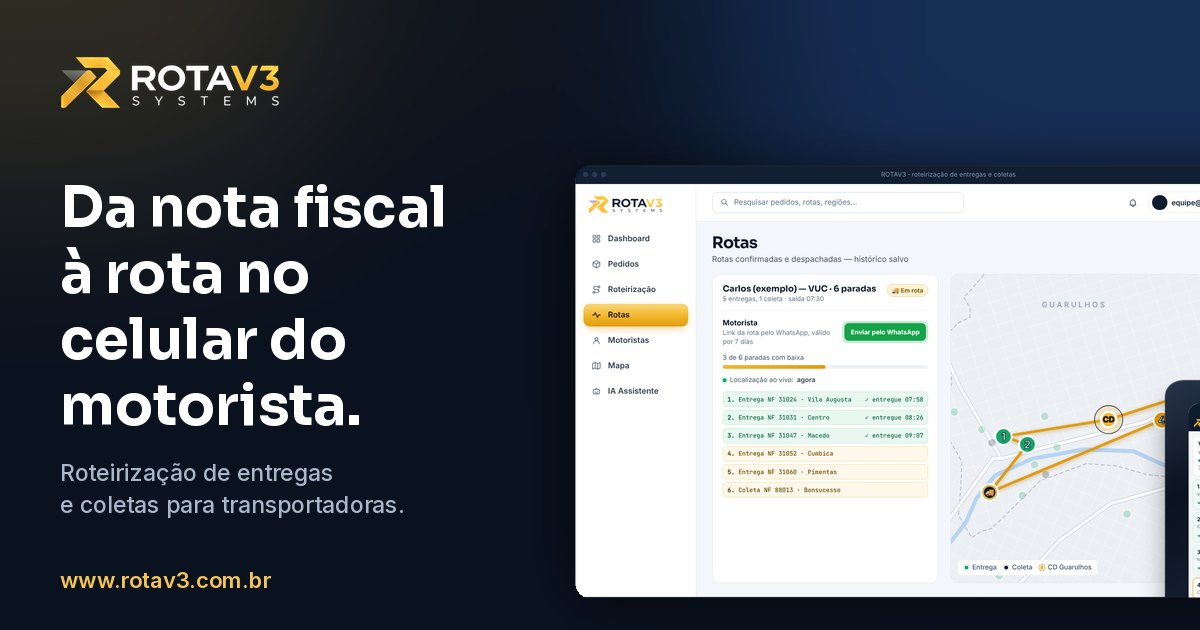
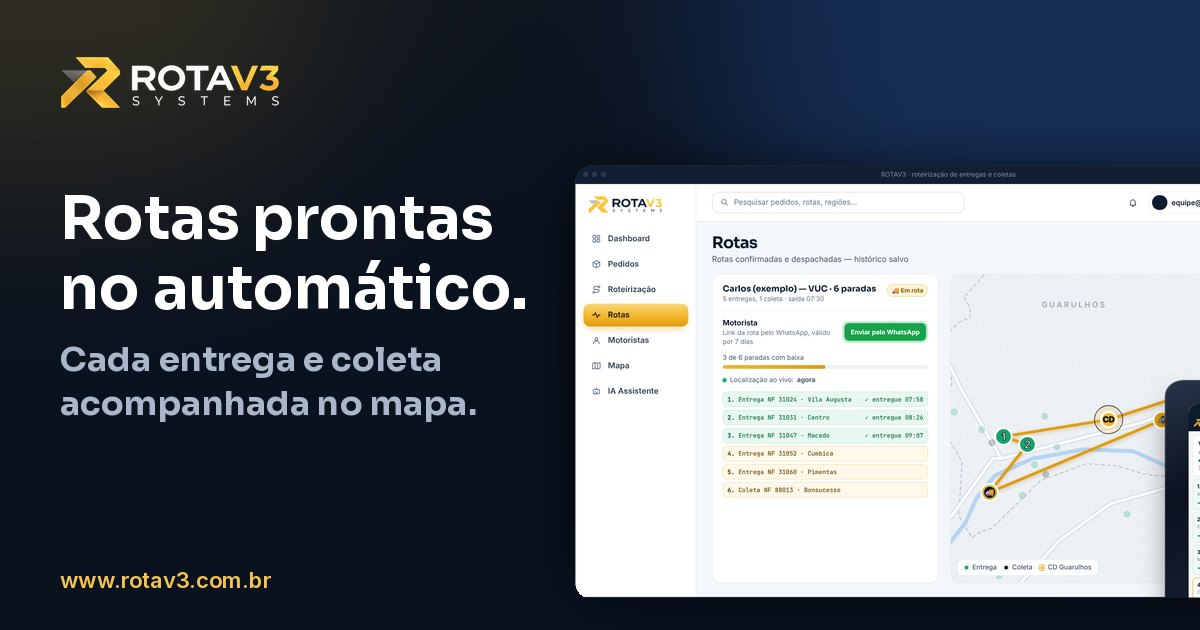
Título 'Rotas prontas no automático' e preço só a partir de R$ 197 (valor da frota sob consulta)
Claude-Session: https://claude.ai/code/session_01Y2emP6HBaBvSJzja7iZRew

Changed region(s): [[0.0308, 0.2714, 0.4317, 0.6937], [0.0308, 0.7238, 0.3392, 0.8143]]

diff --git a/index.html b/index.html
@@ -24,10 +24,10 @@
         } catch (e) {}
       })();
     </script>
-    <title>ROTAV3 Systems — Roteirização de entregas e coletas para transportadoras</title>
+    <title>ROTAV3 — Rotas prontas no automático para transportadoras</title>
     <meta
       name="description"
-      content="Importe o XML das notas, veja entregas e coletas no mapa, gere a rota pelo peso, pela capacidade e pelo horário de cada cliente e envie ao motorista pelo WhatsApp. Baixas com foto e localização ao vivo. A partir de R$ 197 por mês."
+      content="Rotas prontas no automático para transportadoras: importe as notas e o ROTAV3 monta a sequência de paradas pelo peso, pela capacidade e pelo horário de cada cliente, envia a rota ao motorista pelo WhatsApp e mostra cada entrega e coleta no mapa. Planos a partir de R$ 197 por mês."
     />
     <meta name="theme-color" content="#0a1220" />
     <link rel="canonical" href="https://www.rotav3.com.br/" />
@@ -35,12 +35,9 @@
     <meta property="og:locale" content="pt_BR" />
     <meta property="og:site_name" content="ROTAV3 Systems" />
     <meta property="og:url" content="https://www.rotav3.com.br/" />
-    <meta property="og:title" content="ROTAV3 — da nota fiscal à rota no celular do motorista" />
-    <meta
-      property="og:description"
-      content="Roteirização de entregas e coletas para transportadoras: notas no mapa, rota pela capacidade e pelo horário de cada cliente, link do motorista pelo WhatsApp e baixas na hora."
-    />
-    <meta property="og:image" content="https://www.rotav3.com.br/img/og-rotav3.jpg" />
+    <meta property="og:title" content="ROTAV3 — Rotas prontas no automático. Cada entrega e coleta acompanhada no mapa." />
+    <meta property="og:description" content="Importe as notas e o ROTAV3 monta as rotas pelo peso, pela capacidade e pelo horário de cada cliente. O motorista recebe no WhatsApp e cada baixa aparece no mapa na hora." />
+    <meta property="og:image" content="https://www.rotav3.com.br/img/og-rotav3.jpg?v=2" />
     <meta property="og:image:width" content="1200" />
     <meta property="og:image:height" content="630" />
     <meta property="og:image:alt" content="Painel do ROTAV3 com a rota de um veículo no mapa e a tela do motorista no celular" />
@@ -80,9 +77,7 @@
             "offers": {
               "@type": "AggregateOffer",
               "priceCurrency": "BRL",
-              "lowPrice": "197",
-              "highPrice": "697",
-              "offerCount": "3"
+              "lowPrice": "197"
             },
             "publisher": { "@id": "https://www.rotav3.com.br/#org" }
           }
@@ -225,12 +220,12 @@
           </picture>
         </div>
         <div class="cont hero__cab">
-          <h1 id="hero-titulo">Da nota fiscal à rota no celular do&nbsp;motorista.</h1>
+          <h1 id="hero-titulo"><span class="h1-a">Rotas prontas no&nbsp;automático.</span> <span class="h1-b">Cada entrega e coleta acompanhada no&nbsp;mapa.</span></h1>
           <div class="hero__lado">
             <p class="hero__texto">
-              O ROTAV3 lê o XML das suas notas, mostra entregas e coletas no mapa, monta a sequência
-              de paradas pelo peso, pela capacidade e pelo horário de cada cliente e envia a rota ao
-              motorista pelo WhatsApp. Cada baixa aparece no painel na hora.
+              Importe as notas e o ROTAV3 monta sozinho a sequência de paradas pelo peso, pela
+              capacidade e pelo horário de cada cliente. O motorista recebe a rota no WhatsApp e cada
+              baixa aparece no painel na hora.
             </p>
             <div class="hero__acoes">
               <a class="btn btn--ouro btn--g" href="https://wa.me/5511955914618" data-abrir="acesso">
@@ -693,7 +688,7 @@
           <ul class="vivo__fatos">
             <li><img src="img/ic/link.webp" alt="" width="44" height="44" loading="lazy" /><div><b>Sem aplicativo para instalar</b><span>O link abre no navegador de qualquer celular. Vale por 7 dias e o escritório pode encerrar antes.</span></div></li>
             <li><img src="img/ic/camera-with-flash.webp" alt="" width="44" height="44" loading="lazy" /><div><b>Baixa com comprovante</b><span>Nome de quem recebeu, foto do canhoto e, quando não deu certo, o motivo.</span></div></li>
-            <li><img src="img/ic/satellite-antenna.webp" alt="" width="44" height="44" loading="lazy" /><div><b>Rastreador da frota</b><span>Já usa rastreador? Conectamos o ROTAV3 a ele quando o fornecedor libera os dados. Incluso nos planos Operação e Frota.</span></div></li>
+            <li><img src="img/ic/satellite-antenna.webp" alt="" width="44" height="44" loading="lazy" /><div><b>Rastreador da frota</b><span>Já usa rastreador? Conectamos o ROTAV3 a ele quando o fornecedor libera os dados. Confirmamos na demonstração.</span></div></li>
           </ul>
         </div>
       </section>
@@ -871,55 +866,37 @@
       <section class="secao secao--clara precos" id="precos" aria-labelledby="precos-titulo">
         <div class="cont">
           <header class="cab cab--larga">
-            <h2 id="precos-titulo">Preço fixo pelo tamanho da frota.</h2>
+            <h2 id="precos-titulo">Preço pelo tamanho da frota.</h2>
             <p class="cab__texto">
-              Sem cobrança por entrega e sem equipamento para instalar. Implantação e treinamento
-              inclusos em todos os planos. Mensal, sem fidelidade.
+              Sem cobrança por entrega e sem equipamento para instalar. O valor do seu plano depende de
+              quantos veículos rodam na operação e é fechado na demonstração.
             </p>
           </header>
-          <div class="planos">
-            <article class="plano">
-              <h3>Essencial</h3>
-              <p class="plano__para"><svg class="ico"><use href="#i-caminhao" /></svg>Até 5 veículos</p>
+          <div class="preco">
+            <article class="preco__card">
+              <p class="preco__rotulo">Planos a partir de</p>
               <p class="plano__preco"><span>R$</span><b>197</b><span>/mês</span></p>
-              <ul>
-                <li>Todas as funções do sistema</li>
-                <li>Implantação inclusa</li>
-                <li>Sincronização com rastreador: +R$ 97/mês</li>
-              </ul>
-              <a class="btn btn--linha-clara" href="https://wa.me/5511955914618" data-abrir="agendar">Agendar demonstração</a>
+              <p class="preco__texto">Para operações com poucos veículos. Frotas maiores têm o valor calculado pelo número de veículos.</p>
+              <a class="btn btn--ouro btn--g" href="https://wa.me/5511955914618" data-abrir="preco"><svg class="ico"><use href="#i-chat" /></svg>Consultar o valor da minha frota</a>
             </article>
-            <article class="plano plano--meio">
-              <h3>Operação</h3>
-              <p class="plano__para"><svg class="ico"><use href="#i-caminhao" /></svg>6 a 15 veículos</p>
-              <p class="plano__preco"><span>R$</span><b>397</b><span>/mês</span></p>
+            <div class="preco__inclui">
+              <h3>Em todos os planos</h3>
               <ul>
-                <li>Todas as funções do sistema</li>
-                <li>Implantação inclusa</li>
-                <li>Sincronização com rastreador inclusa</li>
+                <li>Todas as funções do sistema, sem módulos extras</li>
+                <li>Implantação e treinamento da equipe inclusos</li>
+                <li>Painel com as cores e o logo da sua empresa</li>
+                <li>Suporte pelo WhatsApp, com quem desenvolve o sistema</li>
+                <li>Mensal, sem fidelidade, sem multa e sem taxa de entrada</li>
               </ul>
-              <a class="btn btn--ouro" href="https://wa.me/5511955914618" data-abrir="agendar">Agendar demonstração</a>
-            </article>
-            <article class="plano">
-              <h3>Frota</h3>
-              <p class="plano__para"><svg class="ico"><use href="#i-caminhao" /></svg>Acima de 15 veículos</p>
-              <p class="plano__preco"><span>R$</span><b>697</b><span>/mês</span></p>
-              <ul>
-                <li>Todas as funções do sistema</li>
-                <li>Implantação inclusa</li>
-                <li>Sincronização com rastreador inclusa</li>
-              </ul>
-              <a class="btn btn--linha-clara" href="https://wa.me/5511955914618" data-abrir="agendar">Agendar demonstração</a>
-            </article>
+            </div>
           </div>
           <div class="precos__rodape">
             <p>
               <b>Sincronização com rastreador:</b> conectamos o ROTAV3 ao rastreador que a sua frota já
               usa, quando o fornecedor libera o acesso aos dados, e os veículos aparecem no mapa junto
-              com as rotas. Confirmamos a compatibilidade na demonstração.
+              com as rotas. Confirmamos a compatibilidade e o valor na demonstração.
               <a href="https://wa.me/5511955914618" data-abrir="rastreamento">Verificar o meu rastreador</a>
             </p>
-            <p><b>Sem fidelidade:</b> pagamento mensal, sem multa e sem taxa de entrada. Cancele quando quiser.</p>
           </div>
         </div>
       </section>
@@ -973,8 +950,8 @@
                 Sim, de dois jeitos. Pelo celular do motorista: com a permissão dele, a página da rota
                 envia a localização enquanto está aberta, e o painel mostra o veículo no mapa. Pelo
                 rastreador da frota: conectamos o ROTAV3 ao rastreador que a sua frota já usa, quando o
-                fornecedor libera o acesso aos dados. A sincronização com rastreador está inclusa nos
-                planos Operação e Frota; no Essencial custa R$ 97 por mês.
+                fornecedor libera o acesso aos dados; confirmamos a compatibilidade e o valor na
+                demonstração.
               </p>
             </details>
             <details>
@@ -1002,9 +979,9 @@
             <details>
               <summary>Quanto custa?<svg class="ico"><use href="#i-mais" /></svg></summary>
               <p>
-                Essencial (até 5 veículos): R$ 197 por mês. Operação (6 a 15 veículos): R$ 397 por mês.
-                Frota (acima de 15 veículos): R$ 697 por mês. Implantação e treinamento inclusos em
-                todos os planos, sem taxa de entrada. <a href="#precos">Ver os planos</a>.
+                Os planos começam em R$ 197 por mês. O valor exato depende do tamanho da frota e é
+                fechado na demonstração, com implantação e treinamento inclusos e sem taxa de entrada.
+                <a href="#precos">Ver o que vem nos planos</a>.
               </p>
             </details>
             <details>

diff --git a/css/style.css b/css/style.css
@@ -514,10 +514,21 @@ p {
   align-items: end;
 }
 .hero h1 {
-  font-size: clamp(2.45rem, 1.25rem + 4.1vw, 4.75rem);
+  font-size: clamp(2.45rem, 1.25rem + 4.1vw, 4.6rem);
   line-height: 1.01;
   letter-spacing: -0.045em;
   color: #fff;
+}
+.h1-a,
+.h1-b {
+  display: block;
+}
+.h1-b {
+  margin-top: 0.32em;
+  font-size: 0.56em;
+  line-height: 1.12;
+  letter-spacing: -0.03em;
+  color: var(--txt-esc-2);
 }
 .hero__texto {
   font-size: clamp(1.03rem, 0.97rem + 0.32vw, 1.2rem);
@@ -3975,11 +3986,71 @@ i.r {
 .plano--meio li::before {
   border-color: var(--ouro);
 }
+.preco {
+  display: grid;
+  grid-template-columns: minmax(0, 0.9fr) minmax(0, 1.1fr);
+  gap: 16px;
+  align-items: stretch;
+}
+.preco__card {
+  display: grid;
+  align-content: start;
+  gap: 10px;
+  padding: clamp(24px, 3vw, 40px);
+  border-radius: var(--raio-g);
+  background: var(--marinho);
+  color: #fff;
+  box-shadow: 0 30px 60px -30px rgba(16, 34, 63, 0.8);
+}
+.preco__rotulo {
+  font-weight: 600;
+  color: #c3cee0;
+}
+.preco__card .plano__preco span {
+  color: #c3cee0;
+}
+.preco__texto {
+  color: #c3cee0;
+  max-width: 40ch;
+  margin-bottom: 10px;
+}
+.preco__card .btn {
+  justify-self: start;
+}
+.preco__inclui {
+  padding: clamp(24px, 3vw, 40px);
+  border-radius: var(--raio-g);
+  background: #fff;
+  border: 1px solid var(--linha);
+}
+.preco__inclui h3 {
+  font-size: 1.2rem;
+  margin-bottom: 14px;
+}
+.preco__inclui ul {
+  display: grid;
+  gap: 12px;
+}
+.preco__inclui li {
+  position: relative;
+  padding-left: 26px;
+  color: var(--tinta-2);
+}
+.preco__inclui li::before {
+  content: "";
+  position: absolute;
+  left: 3px;
+  top: 0.42em;
+  width: 11px;
+  height: 6px;
+  border-left: 2px solid var(--entrega);
+  border-bottom: 2px solid var(--entrega);
+  transform: rotate(-45deg);
+}
 .precos__rodape {
   display: grid;
-  grid-template-columns: repeat(2, minmax(0, 1fr));
   gap: 16px;
-  margin-top: 18px;
+  margin-top: 16px;
 }
 .precos__rodape p {
   padding: 18px 20px;
@@ -3998,8 +4069,11 @@ i.r {
 }
 @media (max-width: 900px) {
   .planos,
-  .precos__rodape {
+  .preco {
     grid-template-columns: minmax(0, 1fr);
+  }
+  .preco__card .btn {
+    justify-self: stretch;
   }
 }
 

diff --git a/js/main.js b/js/main.js
@@ -72,11 +72,13 @@ function abrirModal(qual, gatilho) {
   const m = modais[tipo];
   ultimoGatilho = gatilho || null;
   if (tipo === "agendar") {
-    m.querySelector("[name=interesse]").value = qual === "rastreamento" ? "rastreamento" : "demo";
+    m.querySelector("[name=interesse]").value = qual === "rastreamento" || qual === "preco" ? qual : "demo";
     textoAgendar.textContent =
       qual === "rastreamento"
         ? "Conte sobre a sua frota. A conversa abre no WhatsApp para verificarmos se o seu rastreador pode ser conectado ao ROTAV3."
-        : textoAgendarPadrao;
+        : qual === "preco"
+          ? "Conte o tamanho da frota. A conversa abre no WhatsApp para passarmos o valor do seu plano."
+          : textoAgendarPadrao;
   }
   if (typeof m.showModal === "function") m.showModal();
   else m.setAttribute("open", "");
@@ -124,7 +126,9 @@ function mensagem(tipo, d) {
   return [
     `Olá! Sou ${d.nome.trim()}, da ${d.empresa.trim()}.`,
     d.frota ? `Temos ${d.frota} veículos.` : "",
-    "Gostaria de agendar uma demonstração do ROTAV3 com os dados da nossa operação.",
+    d.interesse === "preco"
+      ? "Gostaria de saber o valor do ROTAV3 para a nossa frota."
+      : "Gostaria de agendar uma demonstração do ROTAV3 com os dados da nossa operação.",
     d.interesse === "rastreamento" ? "Também quero verificar a conexão com o nosso rastreador." : "",
   ]
     .filter(Boolean)

diff --git a/README.md b/README.md
@@ -10,14 +10,14 @@ pedidos, criação de rota, link do motorista, baixas em tempo real e assistente
 
 | Seção | O que mostra | Arquivo |
 | --- | --- | --- |
-| Topo | Título, "Ver o sistema por dentro" (pede e-mail e senha de demonstração pelo WhatsApp), "Agendar demonstração" e um filme em 5 cenas feito com as telas do sistema (importar notas → mapa → gerar rota → enviar ao motorista → acompanhar ao vivo). Fundo com a maquete 3D. | `js/filme.js` |
+| Topo | Título "Rotas prontas no automático. Cada entrega e coleta acompanhada no mapa.", "Ver o sistema por dentro" (pede e-mail e senha de demonstração pelo WhatsApp), "Agendar demonstração" e um filme em 5 cenas feito com as telas do sistema (importar notas → mapa → gerar rota → enviar ao motorista → acompanhar ao vivo). Fundo com a maquete 3D. | `js/filme.js` |
 | Um dia de operação | Linha do tempo das 07:00 às 17:30 com telas pequenas do sistema; a linha dourada enche com a rolagem. | `js/dia.js` |
 | Criar rota | Planejador interativo no mapa de ruas (OpenFreeMap): veículo, entregas/coletas/as duas, saída, capacidade e limite de paradas; "Montar a próxima viagem" com os pedidos que sobraram. Gera a primeira rota sozinho quando aparece. | `js/planejador.js`, `js/roteiro.js` |
 | Mapa 3D | Maquete da Grande São Paulo com os limites reais dos municípios (IBGE), relevo pela quantidade de pedidos, 86 pinos com filtro (todos, entregas, coletas, com horário) e lista por cidade. | `js/mapa3d.js`, `js/dados-regiao.js` |
 | Ao vivo | A **tela do motorista real do sistema** (modo demonstração) dentro de um celular. Cada baixa marcada nele atualiza o painel do escritório ao lado (progresso, mapa, motivo, foto). | `js/aovivo.js` |
 | IA | Conversa de exemplo com as três perguntas do sistema; respostas calculadas com os 86 pedidos fictícios do mapa. | `js/ia.js` |
 | Sua marca | Modelos do painel com a identidade da Via Verde Transportes e da 2SL Log (telas ilustrativas, com dados demonstrativos); tocar amplia. | `index.html`, `img/modelo-*.webp` |
-| Funções, Como começar, Preços, Perguntas, Contato | Texto e formulários (abrem o WhatsApp com a mensagem pronta). | `js/main.js` |
+| Funções, Como começar, Preços, Perguntas, Contato | Texto e formulários (abrem o WhatsApp com a mensagem pronta). Preço: só "planos a partir de R$ 197/mês"; o valor da frota é consultado pelo WhatsApp ("Consultar o valor da minha frota"). | `js/main.js` |
 
 Todos os dados das demonstrações são **fictícios** e a página avisa isso em cada lugar. Nada do que
 o visitante faz nas demonstrações sai do navegador dele.
@@ -55,7 +55,9 @@ O repositório é público. Nunca coloque senhas ou tokens nestes arquivos.
     demonstração (e-mail e senha)? Sou …, da …. E-mail para o acesso: …"
   - Agendar: "Olá! Sou …, da …. Temos … veículos. Gostaria de agendar uma demonstração do ROTAV3 com
     os dados da nossa operação."
-- **Textos, preços e perguntas:** `index.html`.
+  - Consultar valor: "Olá! Sou …, da …. Temos … veículos. Gostaria de saber o valor do ROTAV3 para a
+    nossa frota."
+- **Textos, preço inicial e perguntas:** `index.html` (o "a partir de" também está no `<meta name="description">` e no JSON-LD).
 - **Pedidos do planejador, rota do topo, veículos:** `js/dados.js`.
 - **Cores, tamanhos e espaçamentos:** variáveis no começo de `css/style.css`.
 - **CNPJ:** rodapé do `index.html`, dados estruturados (JSON-LD) e `privacidade.html`.
@@ -128,3 +130,5 @@ mapa) e o Safari do iPhone.
 - **v6 (24/10/2026):** página refeita a partir do sistema real; "Ver o sistema" no topo; filme do
   produto; dia de operação; planejador com as regras do sistema; mapa 3D da Grande SP; tela do
   motorista real sincronizando com o painel; IA; modelos com a identidade de outras empresas; fontes no próprio site.
+- **v6.1 (25/10/2026):** título "Rotas prontas no automático. Cada entrega e coleta acompanhada no
+  mapa."; tabela de planos trocada por "a partir de R$ 197/mês" + consulta do valor pela frota.
